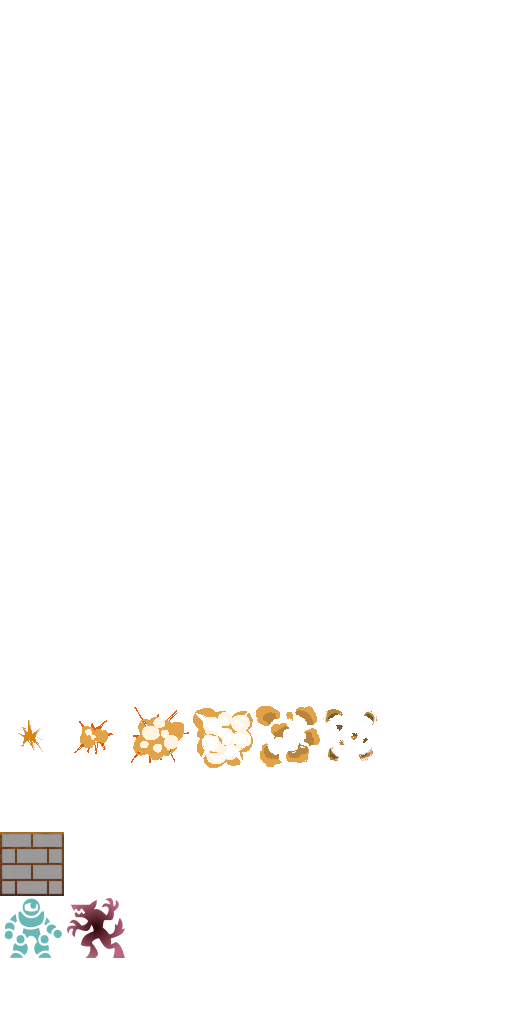
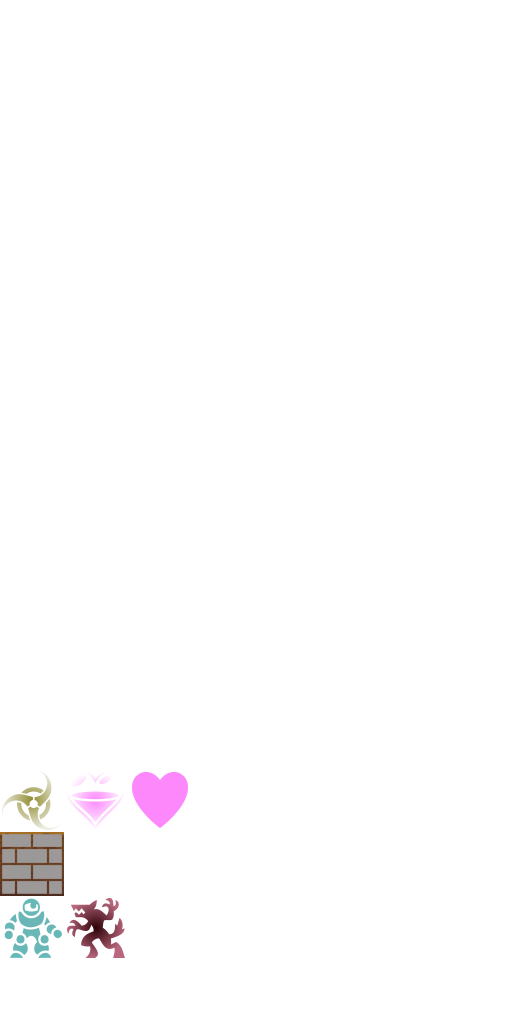
オブジェクト追加＋ゲームオーバー処理実装

diff --git a/obj01.py b/obj01.py
@@ -14,6 +14,10 @@ missSound = SoundLoader.load('./sounds/miss.mp3')
 explosionSound = SoundLoader.load('./sounds/explosion.mp3')
 shout1Sound = SoundLoader.load('./sounds/shout1.mp3')
 damagedSound = SoundLoader.load('./sounds/shout2.mp3')
+healSound = SoundLoader.load('./sounds/heal.mp3')
+clearSound = SoundLoader.load('./sounds/clear.mp3')
+
+SQRT2 = math.sqrt(2) # よく使うsqrt2は定数として持たせて都度計算するのを回避させる
 
 class ExplosionImage(Image):
     pass
@@ -22,19 +26,20 @@ class ExplosionImage(Image):
 class BaseObj(Widget):
     # data
     texture = ObjectProperty(None)
-    
+
     # param
-    lifePoint = NumericProperty(None)
+    lifePoint = NumericProperty(None) # ライフポイント
+    v = (0, 0) # x方向、y方向の速度(px/s)
+    duration = 0 # オブジェクトの作業時間（爆発時間や停止時間等に仕様）
+    g = NumericProperty(None)
 
     # flags
-    alive = BooleanProperty(True)
-    explode = BooleanProperty(False)
-    jumping = BooleanProperty(True) # 床と接触するまでは原則的にTrueとする
-
-    SQRT2 = math.sqrt(2) # よく使うsqrt2は定数として持たせて都度計算するのを回避させる
+    alive = BooleanProperty(True) # 生存フラグ
+    explode = BooleanProperty(False) # 爆発フラグ(Trueになったとき、実質的にしんでいる)
+    jumping = BooleanProperty(True) # ジャンプフラグ。床と接触するまでは原則的にTrueとする
     
-    duration = 0
-    v = (0, 0)
+    
+    
 
     def spawn(self, img):
         t01 = TextureUtil.getTexture(img, self.region)
@@ -63,7 +68,7 @@ class BaseObj(Widget):
         obj01_right = _obj01.pos[0] + self.width
         obj01_top = _obj01.pos[1] + self.height
 
-        # 衝突判定(現在の衝突状態と直前の座標の両面から勘案)
+        # 衝突判定(相対ベクトルの角度を用いて判断。大きさが違う場合は判定方法を見直す必要があると思われる)
         if self.collide_widget(_obj01):
 
             # 対象のオブジェクトとプレイヤーleftBottom座標(pos)を直線で結び、x軸に対しての角度を考える
@@ -74,22 +79,22 @@ class BaseObj(Widget):
             Logger.info('Hoge: player1=({},{})'.format(_obj01.pos[0], _obj01.pos[1]))
             # 地に足つける判定（物体から見て上にプレイヤーがいる状態）
             # 0.25 PI ≦ X ≦ 0.75 PI
-            if obj02_top >= obj01_bottom and (sinX >= 0.5 * self.SQRT2 and cosX >= -0.5 * self.SQRT2 and cosX <= 0.5 * self.SQRT2):
+            if obj02_top >= obj01_bottom and (sinX >= 0.5 * SQRT2 and cosX >= -0.5 * SQRT2 and cosX <= 0.5 * SQRT2):
                 Logger.info('Hoge: case1')
                 self.upAffect(_obj01)
             # 天井に頭ぶつける判定（物体から見て下にプレイヤーがいる状態）
             # 1.25 PI ≦ X ≦ 1.75 PI
-            elif obj02_bottom <= obj01_top and (sinX <= -0.5 * self.SQRT2 and cosX >= -0.5 * self.SQRT2 and cosX <= 0.5 * self.SQRT2):
+            elif obj02_bottom <= obj01_top and (sinX <= -0.5 * SQRT2 and cosX >= -0.5 * SQRT2 and cosX <= 0.5 * SQRT2):
                 Logger.info('Hoge: case2')
                 self.downAffect(_obj01)
             # 右にオブジェクトがあるとき判定（物体から見て左にプレイヤーがいる状態）
             # 0.75 PI ＜ X ＜ 1.25 PI
-            elif obj02_left < obj01_right and (cosX < -0.5 * self.SQRT2 and sinX > -0.5 * self.SQRT2 and sinX < 0.5 * self.SQRT2):
+            elif obj02_left < obj01_right and (cosX < -0.5 * SQRT2 and sinX > -0.5 * SQRT2 and sinX < 0.5 * SQRT2):
                 Logger.info('Hoge: case3, self.pos={}, target.pos={}'.format(self.pos, _obj01.pos))
                 self.leftAffect(_obj01)
             # 左にオブジェクトがあるとき判定（物体から見て右にプレイヤーがいる状態）
-            # 1.75 PI ＜ X ＜ 2.25 PI
-            elif obj02_right > obj01_left and (cosX > 0.5 * self.SQRT2 and sinX > -0.5 * self.SQRT2 and sinX < 0.5 * self.SQRT2):
+            # 1.75 PI ＜ X ＜ 2.25 PI(0.25PI)
+            elif obj02_right > obj01_left and (cosX > 0.5 * SQRT2 and sinX > -0.5 * SQRT2 and sinX < 0.5 * SQRT2):
                 Logger.info('Hoge: case4, self.pos={}, target.pos={}'.format(self.pos, _obj01.pos))
                 self.rightAffect(_obj01)
 
@@ -129,7 +134,7 @@ class BaseObj(Widget):
 
 class Obj01(BaseObj):
 
-    g = 9.8 * 200
+    maxLifePoint = NumericProperty(None)
 
     """ 移動処理
         プレイヤーの移動処理はステージ全体の移動処理と連動しているため、ここには実装しない
@@ -180,10 +185,6 @@ class Obj02(BaseObj):
 class Obj03(BaseObj):
 
     pattern = 0
-
-    v = (-100, 0)
-
-    g = 9.8 * 200
 
     """ 移動処理 """
     def move(self, dt):
@@ -241,3 +242,14 @@ class Obj03(BaseObj):
             target.damaged() # やられる
             self.alive = False # 敵も消える
 
+class Obj04(BaseObj):
+    def affect(self, _obj01):
+        if self.isOK() and self.collide_widget(_obj01):
+            clearSound.play()
+            self.alive = False
+
+class Obj05(BaseObj):
+    def affect(self, _obj01):
+        if self.isOK() and self.collide_widget(_obj01):
+            healSound.play()
+            self.alive = False

diff --git a/main.py b/main.py
@@ -2,7 +2,7 @@ from kivy.app import App
 from kivy.uix.widget import Widget
 from kivy.clock import Clock
 from kivy.uix.image import Image
-from obj01 import Obj01, Obj02, Obj03
+from obj01 import Obj01, Obj02, Obj03, Obj04, Obj05
 from kivy.config import Config
 from kivy.properties import ObjectProperty, NumericProperty, BooleanProperty
 from postime import PosTime, PosTimeUtil
@@ -11,6 +11,7 @@ import math
 from kivy.logger import Logger
 from kivy.core.window import Window
 from kivy.core.audio import SoundLoader
+from kivy.uix.label import Label
 
 # 勝手にportraitオリエンテーションにするのを防ぐためのおまじない
 # kivy.core.window を使用すると端末の方向によってはportraitオリエンテーションになってしまう
@@ -20,6 +21,9 @@ Config.set('graphics', 'resizable', 0)
 class MyImages(Image):
     pass
 
+
+class MyLabel(Label):
+    pass
 
 """ メインのゲームウィジェット """
 class MainGame(Widget):
@@ -75,30 +79,46 @@ class MainGame(Widget):
                     self.player = Obj01()
                     self.player.spawn(imgs)
                     self.player.pos = (x * 100, y * 100)
-                    self.add_widget(self.player)
+                    self.objectLayer.add_widget(self.player)
                 elif tiles[x] == "2":
                     # obj02を初期化し、メインのWidgetに追加
                     obj02 = Obj02()
                     obj02.spawn(imgs)
                     obj02.pos = (x * 100, y * 100)
                     self.objs.append(obj02)
-                    self.add_widget(obj02)
+                    self.objectLayer.add_widget(obj02)
                 elif tiles[x] == "3":
-                    # obj02を初期化し、メインのWidgetに追加
+                    # obj03を初期化し、メインのWidgetに追加
                     obj03 = Obj03()
                     obj03.spawn(imgs)
                     obj03.pos = (x * 100, y * 100)
                     self.enemies.append(obj03)
-                    self.add_widget(obj03)
-
+                    self.objectLayer.add_widget(obj03)
+                elif tiles[x] == "4":
+                    # obj04を初期化し、メインのWidgetに追加
+                    obj04 = Obj04()
+                    obj04.spawn(imgs)
+                    obj04.pos = (x * 100, y * 100)
+                    self.objs.append(obj04)
+                    self.objectLayer.add_widget(obj04)
+                elif tiles[x] == "5":
+                    # obj05を初期化し、メインのWidgetに追加
+                    obj05 = Obj05()
+                    obj05.spawn(imgs)
+                    obj05.pos = (x * 100, y * 100)
+                    self.objs.append(obj05)
+                    self.objectLayer.add_widget(obj05)
 
         # 毎秒60回更新処理を実行する
         Clock.schedule_interval(self.update, 1 / 60.0)
+
+
 
     """ 秒間60回実行されるメイン処理 """
     def update(self, dt):
         
         if self.isGameOver:
+            self.txtGameOver.text = str('GAME OVER')
             return
 
         # 移動系処理メイン
@@ -124,7 +144,7 @@ class MainGame(Widget):
                 playerDx = 0
                 relativeDx = dx * -1
                 self.currentX = self.currentX + dx  # 右スクロール中、現在座標は加算される
-            elif self.player.pos[0] < 0.5 * self.screenWidth - self.player.size[0] and self.player.v[0] < 0 and self.currentX > 0:
+            elif self.player.pos[0] < 0.5 * self.screenWidth and self.player.v[0] < 0 and self.currentX > 0:
                 playerDx = 0
                 relativeDx = dx * -1
                 self.currentX = self.currentX + dx  # 左スクロール中、現在座標は減算される
@@ -179,7 +199,12 @@ class MainGame(Widget):
             self.player.update(dt)
         else:
             self.isGameOver = True
-            self.remove_widget(self.player)
+            self.objectLayer.remove_widget(self.player)
+
+        # オブジェクト状態更新系処理
+        for obj02 in self.objs:
+            if obj02.alive == False:
+                self.objectLayer.remove_widget(obj02)
 
 
         # 敵状態更新系処理
@@ -187,7 +212,7 @@ class MainGame(Widget):
             if enemy.alive:
                 enemy.update(dt)
             else:
-                self.remove_widget(enemy)
+                self.objectLayer.remove_widget(enemy)
 
     """ タップ時処理 """
 
